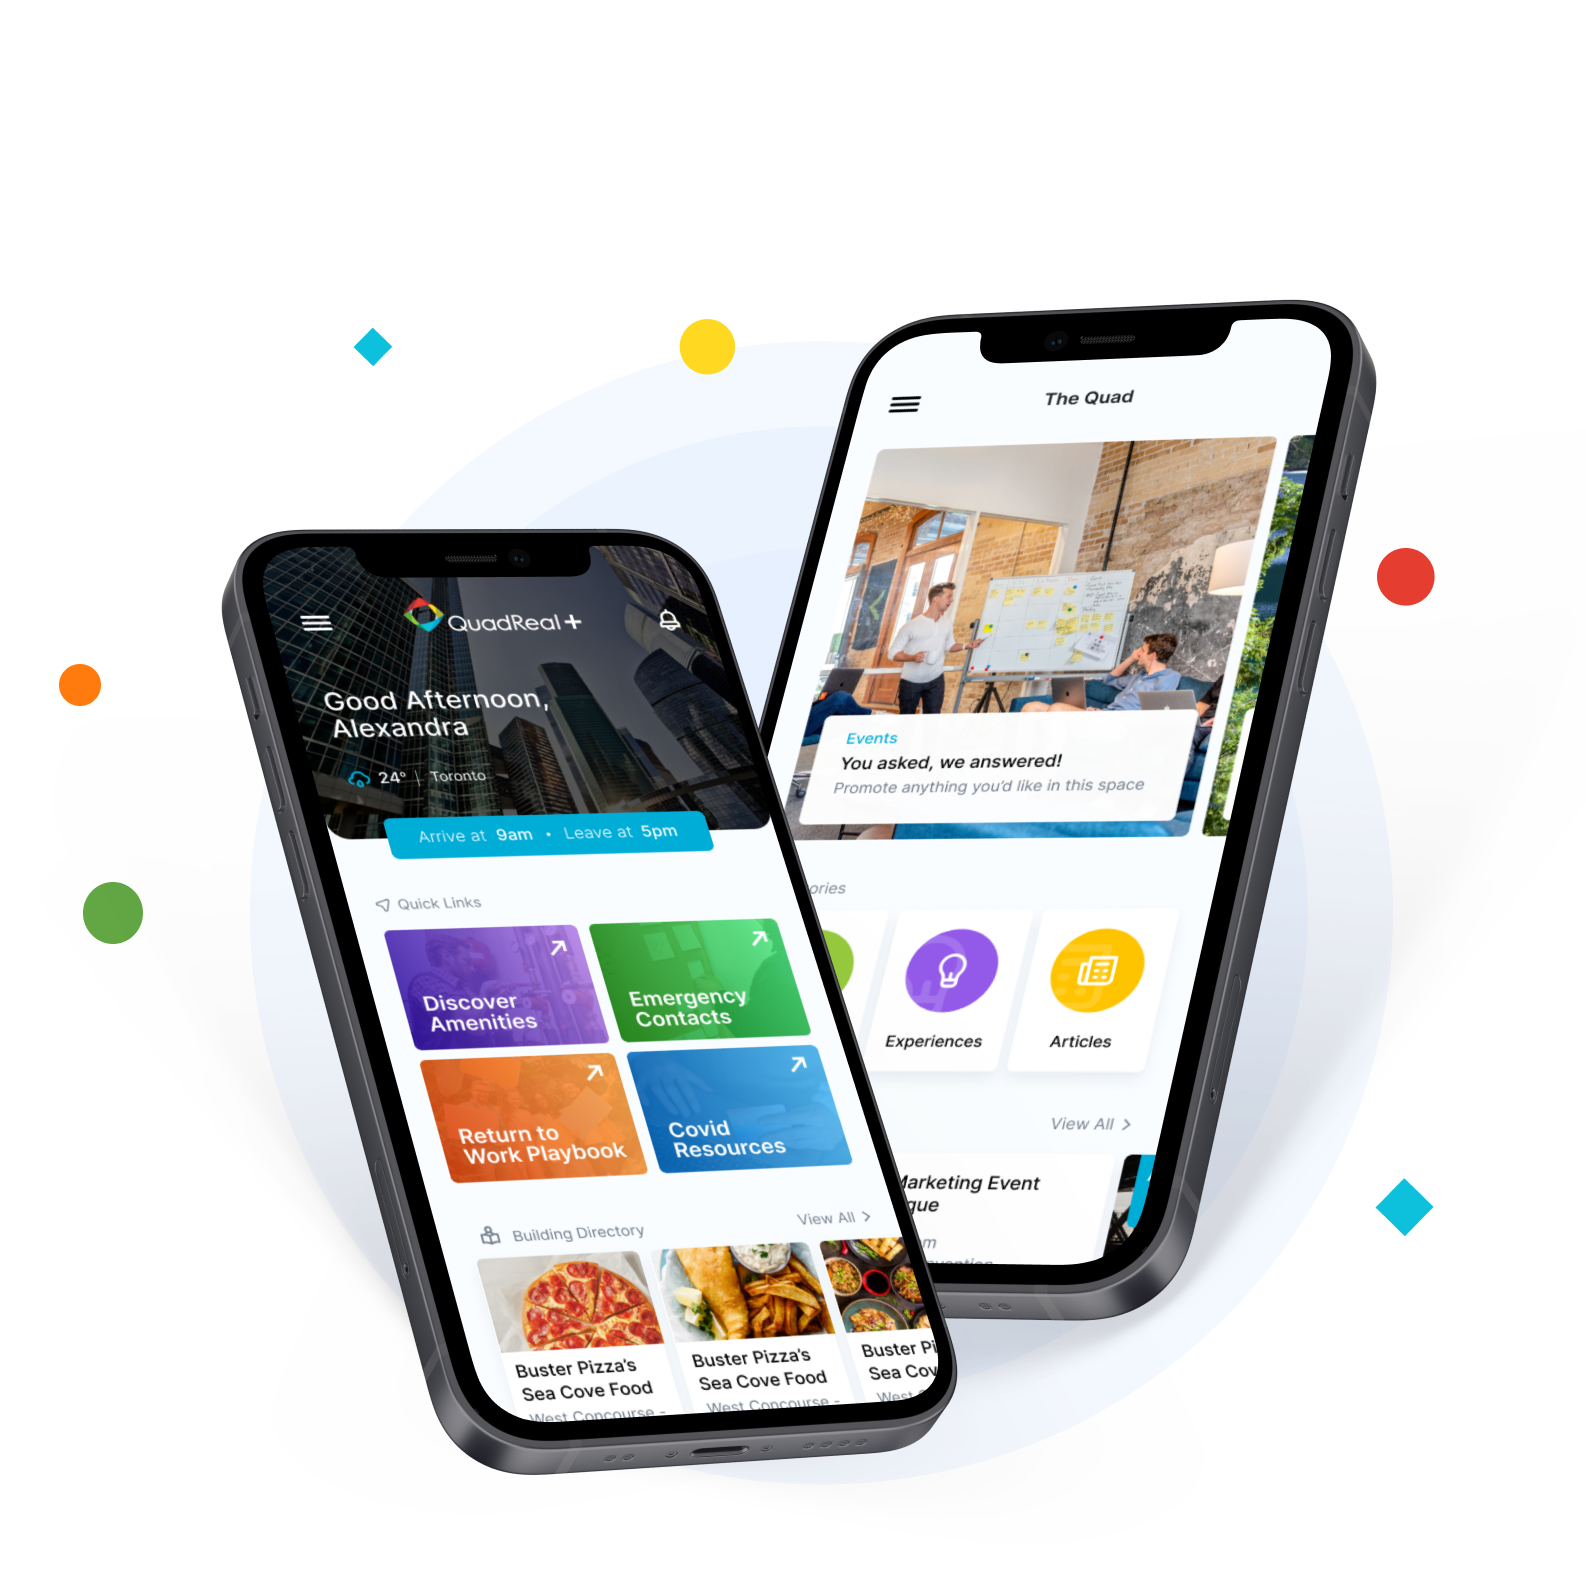
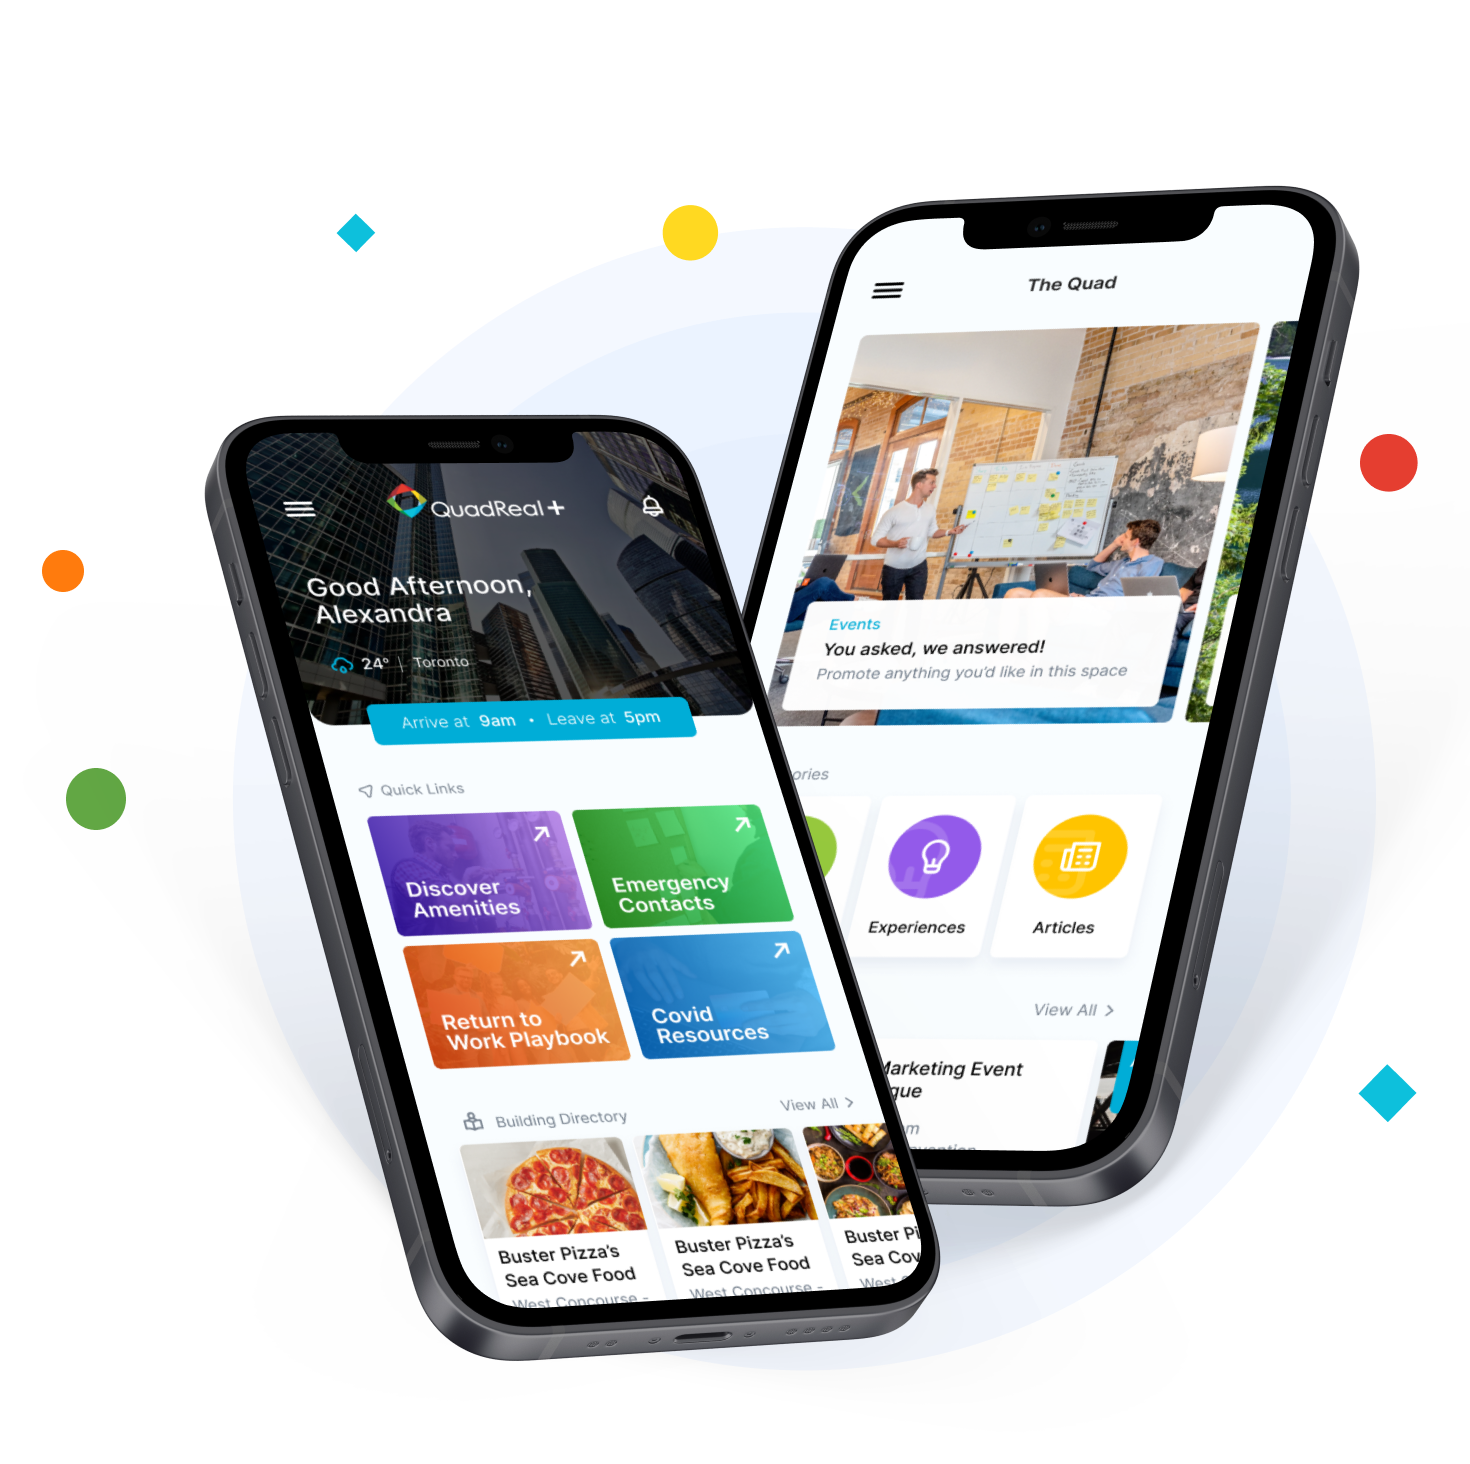
90%

diff --git a/styles/globals.css b/styles/globals.css
@@ -1,5 +1,7 @@
-html,
-body {
+html{
+  scroll-behavior: smooth;
+}
+html,body {
   padding: 0;
   margin: 0;
   font-family: -apple-system, BlinkMacSystemFont, Segoe UI, Roboto, Oxygen,
@@ -30,7 +32,7 @@ a {
   border-bottom-left-radius: 20px;
   border-bottom-right-radius: 20px;
   background-color: white;
-  padding: 2rem 1rem 1rem 1rem;
+  padding: 2rem 2rem 1rem 2rem;
 }
 .navbutton{
   border: 2px solid transparent;
@@ -60,17 +62,17 @@ a {
   background-image: url('../pages/src/media/Group\ 489.png');
   /* background-blend-mode: multiply;
   background-repeat: no-repeat;
-  background-size: contain;
   background-color: rgb(27,126,227); */
   position: relative;
   /* background-image: url(/_next/static/media/home-bg.7d3859e….png); */
-  background-size: cover;
+  background-size: contain;
   background-repeat: no-repeat;
   height: auto;
-  background-position: bottom;
+  /* background-position: bottom; */
   width: 100%;
   left: 0;
   top: 0;
+  /* border-bottom-right-radius: 44% 50%; */
 }
 /* .hero-container{
   margin: 0rem 5rem;
@@ -101,9 +103,9 @@ a {
   padding: 2rem;
   width: 402px;
   height: 153px;
-  position: absolute;
-  left: 415px;
-  top: 318px;
+  position: relative;
+    left: 235px;
+    top: 119px;
   background: #FFFFFF;
   box-shadow: 0px 3.26198px 30px rgba(0, 0, 0, 0.1);
   border-radius: 22.8338px;
@@ -280,9 +282,6 @@ backdrop-filter: blur(24px);
   border-radius: 8px !important;
   margin-bottom: 1rem;
   background-color: rgb(239,240,246);
-}
-.box-open{
-
 }
 .box-open>h3{
   font-weight: 500;

diff --git a/pages/src/components/heroSectionNew.js b/pages/src/components/heroSectionNew.js
@@ -13,13 +13,13 @@ export default function Herosection() {
     <HeaderNew />
       <div className='hero-container'>
         <Row align='middle' justify='space-around'>
-            <Col lg={{span:10}} xs={{span:18,offset:2}}>
+            <Col lg={{span:7,offset:3}} xs={{span:18,offset:0}}>
             <div className='hero-textbox'>
             <h1>
-            Delivering connected & Seamless Tenant Experiences
+            Delivering connected &amp; Seamless Tenant Experiences
             </h1>
             <p>
-            Stay connected by taking advantage of our real-time building communications, access events and news, exclusive retailer promotions, and enjoy the innovative ways we’re connecting smart building technology with our community.
+            Stay connected by taking advantage of our real-time building communications, access events and news, exclusive retailer promotions, and enjoy the innovative ways we&apos;re connecting smart building technology with our community.
             </p>
             <div className='hero-lablebox'>
               <span>Available on both iPhone and Android devices</span>
@@ -30,7 +30,7 @@ export default function Herosection() {
             </div>
           </div>
             </Col>
-            <Col lg={{span:12}} xs={{span:24}}>
+            <Col className='hero-phone-section'  lg={{span:12}} xs={{span:24}}>
                 <Image src={PhoneImg} alt='modal of mobile appp' />
             </Col>
         </Row>

diff --git a/styles/globalMediaQ.css b/styles/globalMediaQ.css
@@ -4,16 +4,23 @@
 }
     /* ************ Header section starts here ********************/
 .header-section{
+    margin: 0rem;
     margin-bottom: 3rem;
 }
+.logobox{
+    border-bottom-left-radius: 20px;
+    border-bottom-right-radius: 20px;
+    background-color: white;
+    padding: 2rem 1rem 1rem 1rem;
+  }
 /* *************** Hero section starts here ***********************/
 .herosection{
-    background-image: url('../pages/src/media/mobile/Rectangle\ 1036.png');
-    background-blend-mode: multiply;
+    background-image: url('../pages/src/media/mobile/Group\ 489.png');
+    /* background-blend-mode: multiply; */
     background-repeat: no-repeat;
     background-size: contain;
-    background-color: rgb(27,126,227);
-    border-bottom-right-radius: 50% 64%;
+    /* background-color: rgb(27,126,227); */
+    /* border-bottom-right-radius: 50% 64%; */
 }
 .hero-textbox{
     padding: 1rem;
@@ -22,12 +29,15 @@
     font-size: 28px;
 }
 .hero-lablebox{
-    padding: 2rem;
+    padding: 0rem;
     position: relative;
     left: 0;
-    top: 0;
+    right: 0;
+    margin: auto;
+    top: 355px;
     background: #FFFFFF;
     width: fit-content;
+    box-shadow: none;
 }
 .hero-lablebox>span{
     font-weight: 500;
@@ -35,6 +45,9 @@
     text-align: center;
     color: #73818F;
     margin-bottom: 1rem;
+}
+.hero-phone-section{
+    top: -225px;
 }
 /* ********* features section start here ****************/
 .topbox{

diff --git a/pages/src/components/headerNew.js b/pages/src/components/headerNew.js
@@ -7,10 +7,10 @@ export default function HeaderNew() {
   return (
     <header className='header-section'>
         <Row align='middle'>
-            <Col className='logobox' lg={5} xs={20}>
+            <Col className='logobox' lg={{span:4,offset:0}} xs={{span:14,offset:1}}>
                 <Image className='logo' src={LogoImg} alt='logo Img'/>
             </Col>
-            <Col lg={8} xs={0} offset={11} className='navbar'>
+            <Col lg={{span:8,offset:12}} xs={{span:0,offset:0}} className='navbar'>
             <Row justify='space-between' align='middle'>
                 <Col className='navline'>Features</Col>
                 <Col className='navline'>Lorem</Col>

diff --git a/pages/src/components/Footer.js b/pages/src/components/Footer.js
@@ -9,7 +9,7 @@ export default function Footer() {
     <footer className='footer-section'>
         <div className='container footer'>
         <Row align='middle'>
-            <Col lg={{span:6,offset:2}} xs={{span:16,offset:4,justify:'center'}}>
+            <Col lg={{span:8,offset:0}} xs={{span:16,offset:4,justify:'center'}}>
                 <Image src={LogoImg} className='footer-logo' alt='logo in footer' />
             </Col>
             <Col lg={{span:4}} xs={{span:0}}>

diff --git a/pages/index.js b/pages/index.js
@@ -1,7 +1,6 @@
 import Head from 'next/head';
 import Image from 'next/image';
 import styles from '../styles/Home.module.css';
-import Herosection from './src/components/herosection';
 import HerosectionNew from './src/components/heroSectionNew';
 import Featuresection from './src/components/features';
 import Optionsection from './src/components/options';
